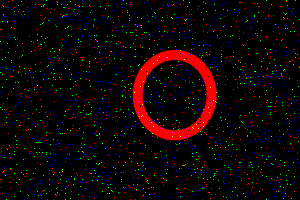
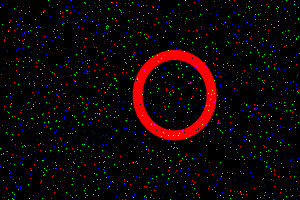
changed files

diff --git a/src/generateData.py b/src/generateData.py
@@ -5,7 +5,7 @@ import csv
 import numpy as np
 from addNoise import noisy
 
-NumOfGeneratedPics = 1
+NumOfGeneratedPics = 10
 imgMode = 'RGB'; imgSize = [300,200]; imgColor = 'black'
 
 csvLabels = ['PictureID', 'XcenterEllipse', 'YcenterEllipse']
